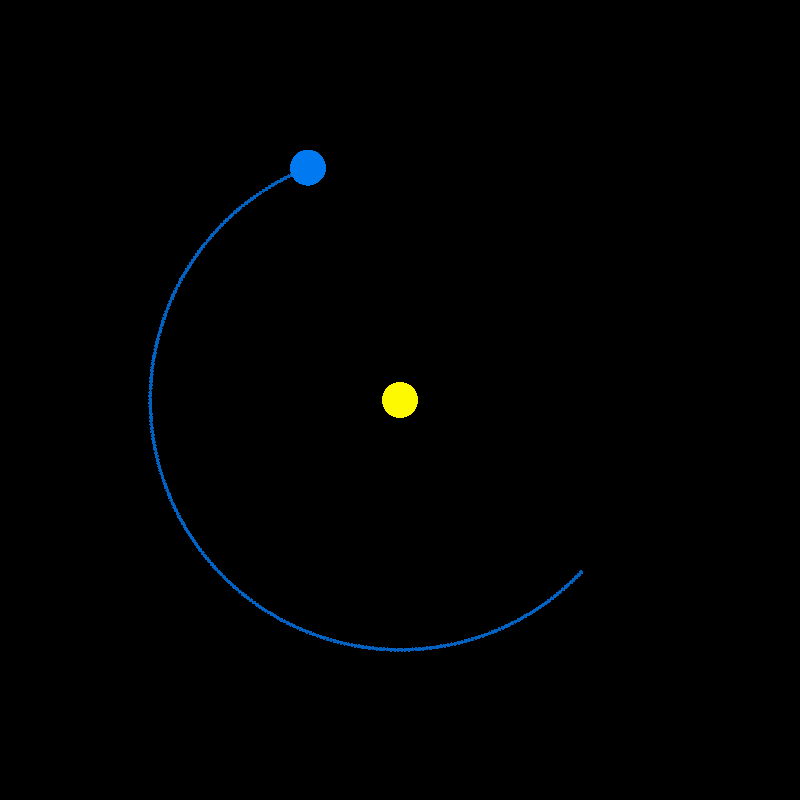
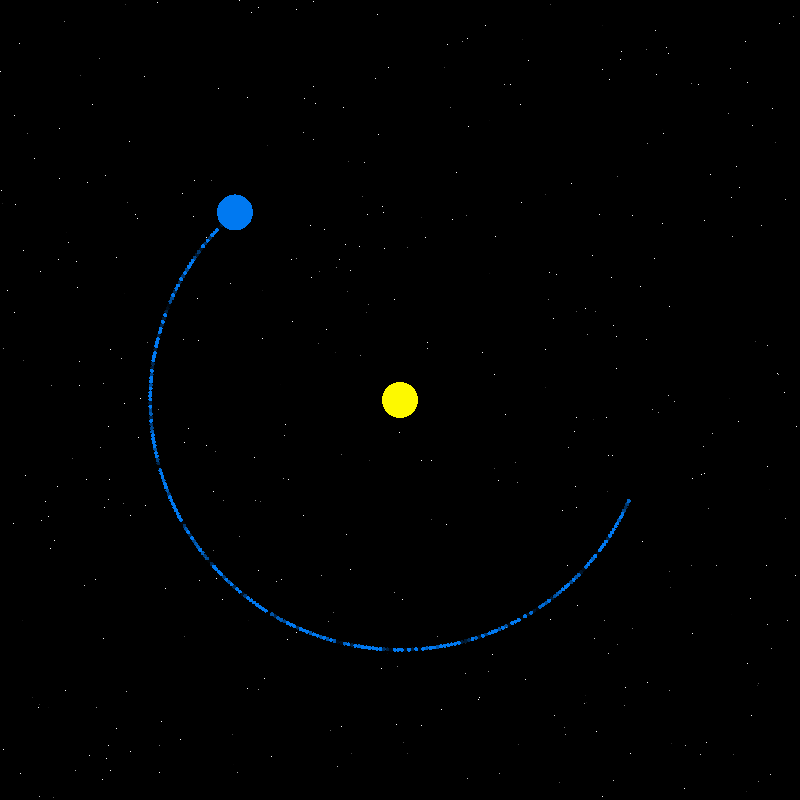
Add stars to background

diff --git a/orbit.c b/orbit.c
@@ -12,11 +12,14 @@
 #define G        6.674e-11
 #define STEPS    20
 
-#define MAX_TRAIL      250 
+#define MAX_TRAIL      250
 #define SCALE          250.0 / 1.496e11
 #define SCALE_FIGURES  3
 
+#define MAX_STARS      400
+
 Vector2 versor(Vector2 v);
+double rand_float(void);
 
 int main(int argc, char **argv)
 {
@@ -31,14 +34,19 @@ int main(int argc, char **argv)
     Vector2 trail[MAX_TRAIL] = { 0 };
     int trail_idx = 0, trail_len = 0;
 
+    Vector2 stars[MAX_STARS] = { 0 };
+    for (int i = 0; i < MAX_STARS; ++i)
+        stars[i] = (Vector2){ GetRandomValue(0, GetScreenWidth()),
+                              GetRandomValue(0, GetScreenHeight()) };
+
     while (!WindowShouldClose()) {
         double dt = 3600.0;
 
         for (int step = 0; step < STEPS; ++step) {
             double dist = sqrt(sq(r.x) + sq(r.y));
-            double F = G*((mass_planet*mass_sun)/sq(dist));
+            double F = -G*((mass_planet*mass_sun)/sq(dist));
             Vector2 u = versor(r);
-            Vector2 a = { -F*u.x / mass_planet, -F*u.y / mass_planet };
+            Vector2 a = { F*u.x / mass_planet, F*u.y / mass_planet };
 
             // Update velocity
             v.x += a.x*dt;
@@ -57,11 +65,14 @@ int main(int argc, char **argv)
         ClearBackground(BLACK);
         Vector2 sun = { GetScreenWidth()/2.0f, GetScreenHeight()/2.0f };
         Vector2 planet = { sun.x + r.x*SCALE, sun.y + r.y*SCALE };
-        
+
+        for (int i = 0; i < MAX_STARS; ++i)
+            DrawPixelV(stars[i], Fade(WHITE, rand_float()));
+
         for (int i = 0; i < trail_len; ++i) {
             int idx = (trail_idx - 1 - i + MAX_TRAIL) % MAX_TRAIL;
             Vector2 dot = { sun.x + trail[idx].x*SCALE, sun.y + trail[idx].y*SCALE };
-            DrawCircleV(dot, 2, Fade(BLUE, 0.8f));
+            DrawCircleV(dot, 2, Fade(BLUE, 0.8));
         }
 
         DrawCircleV(sun, 6*SCALE_FIGURES, YELLOW);
@@ -77,4 +88,9 @@ inline Vector2 versor(Vector2 v)
 {
     double m = sqrt(sq(v.x) + sq(v.y));
     return (Vector2){ v.x/m, v.y/m };
+}
+
+double rand_float(void)
+{
+    return ((double)GetRandomValue(0, 100))/50.0;
 }
